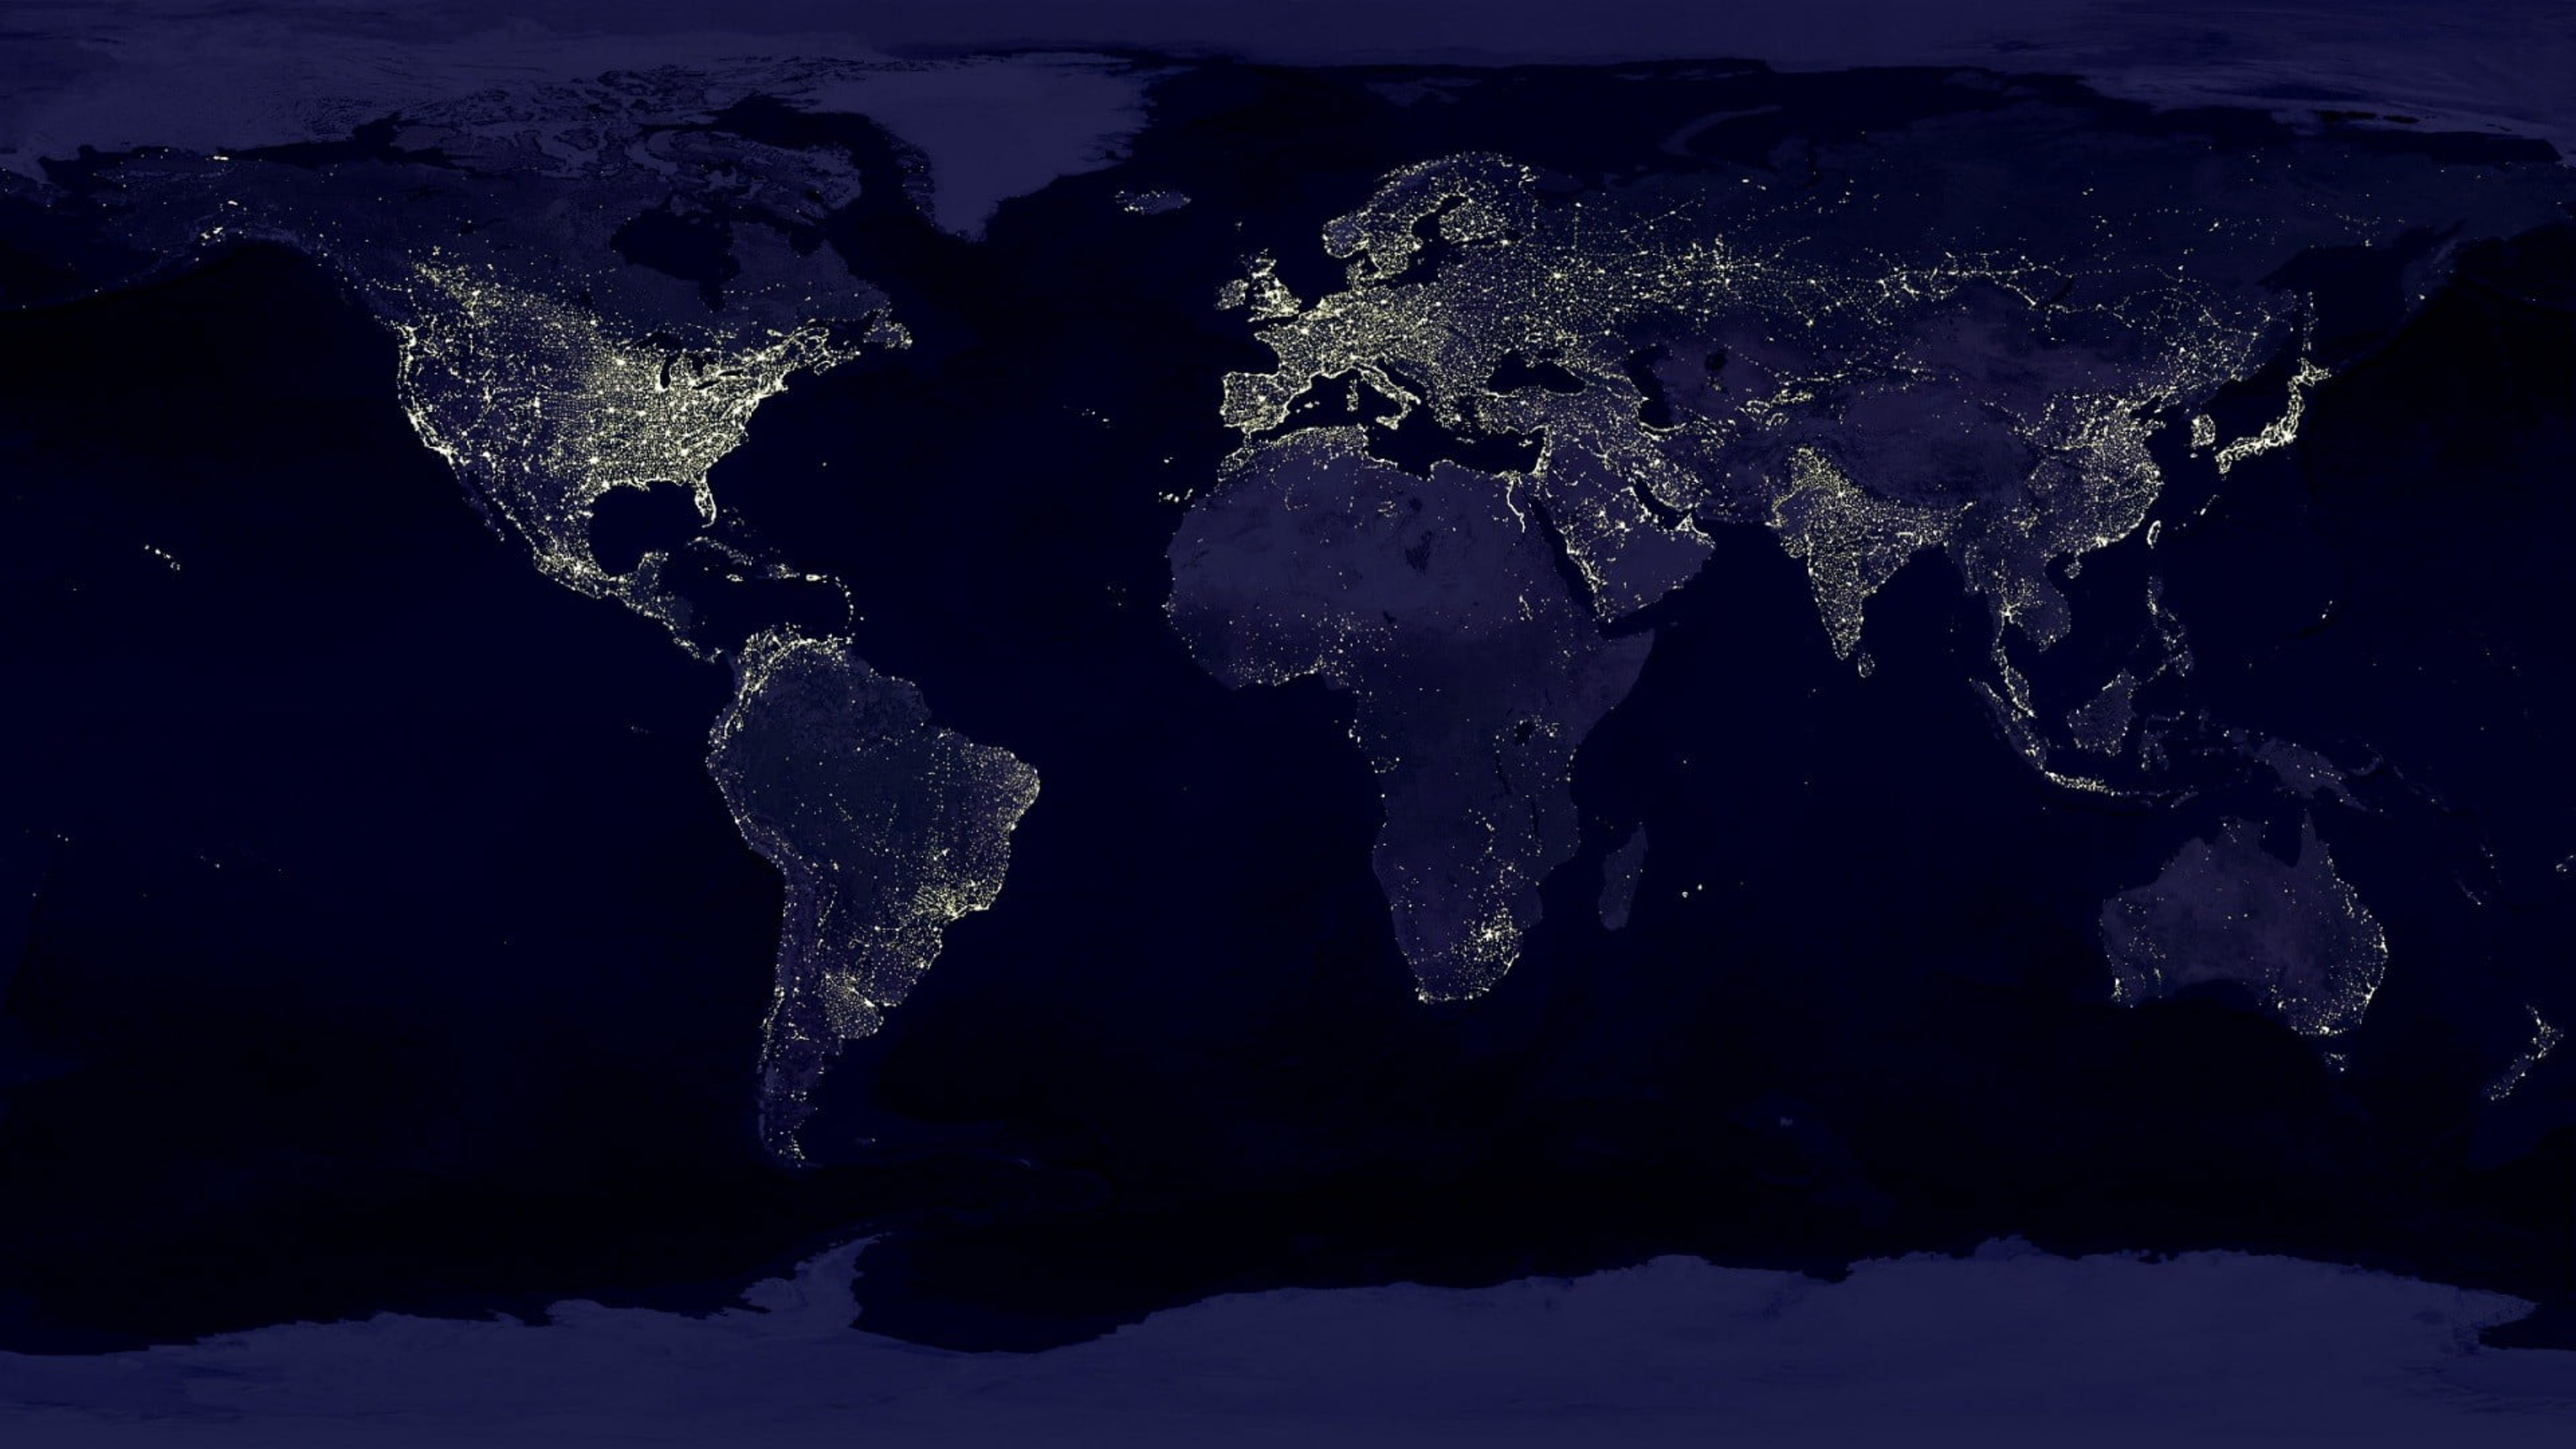
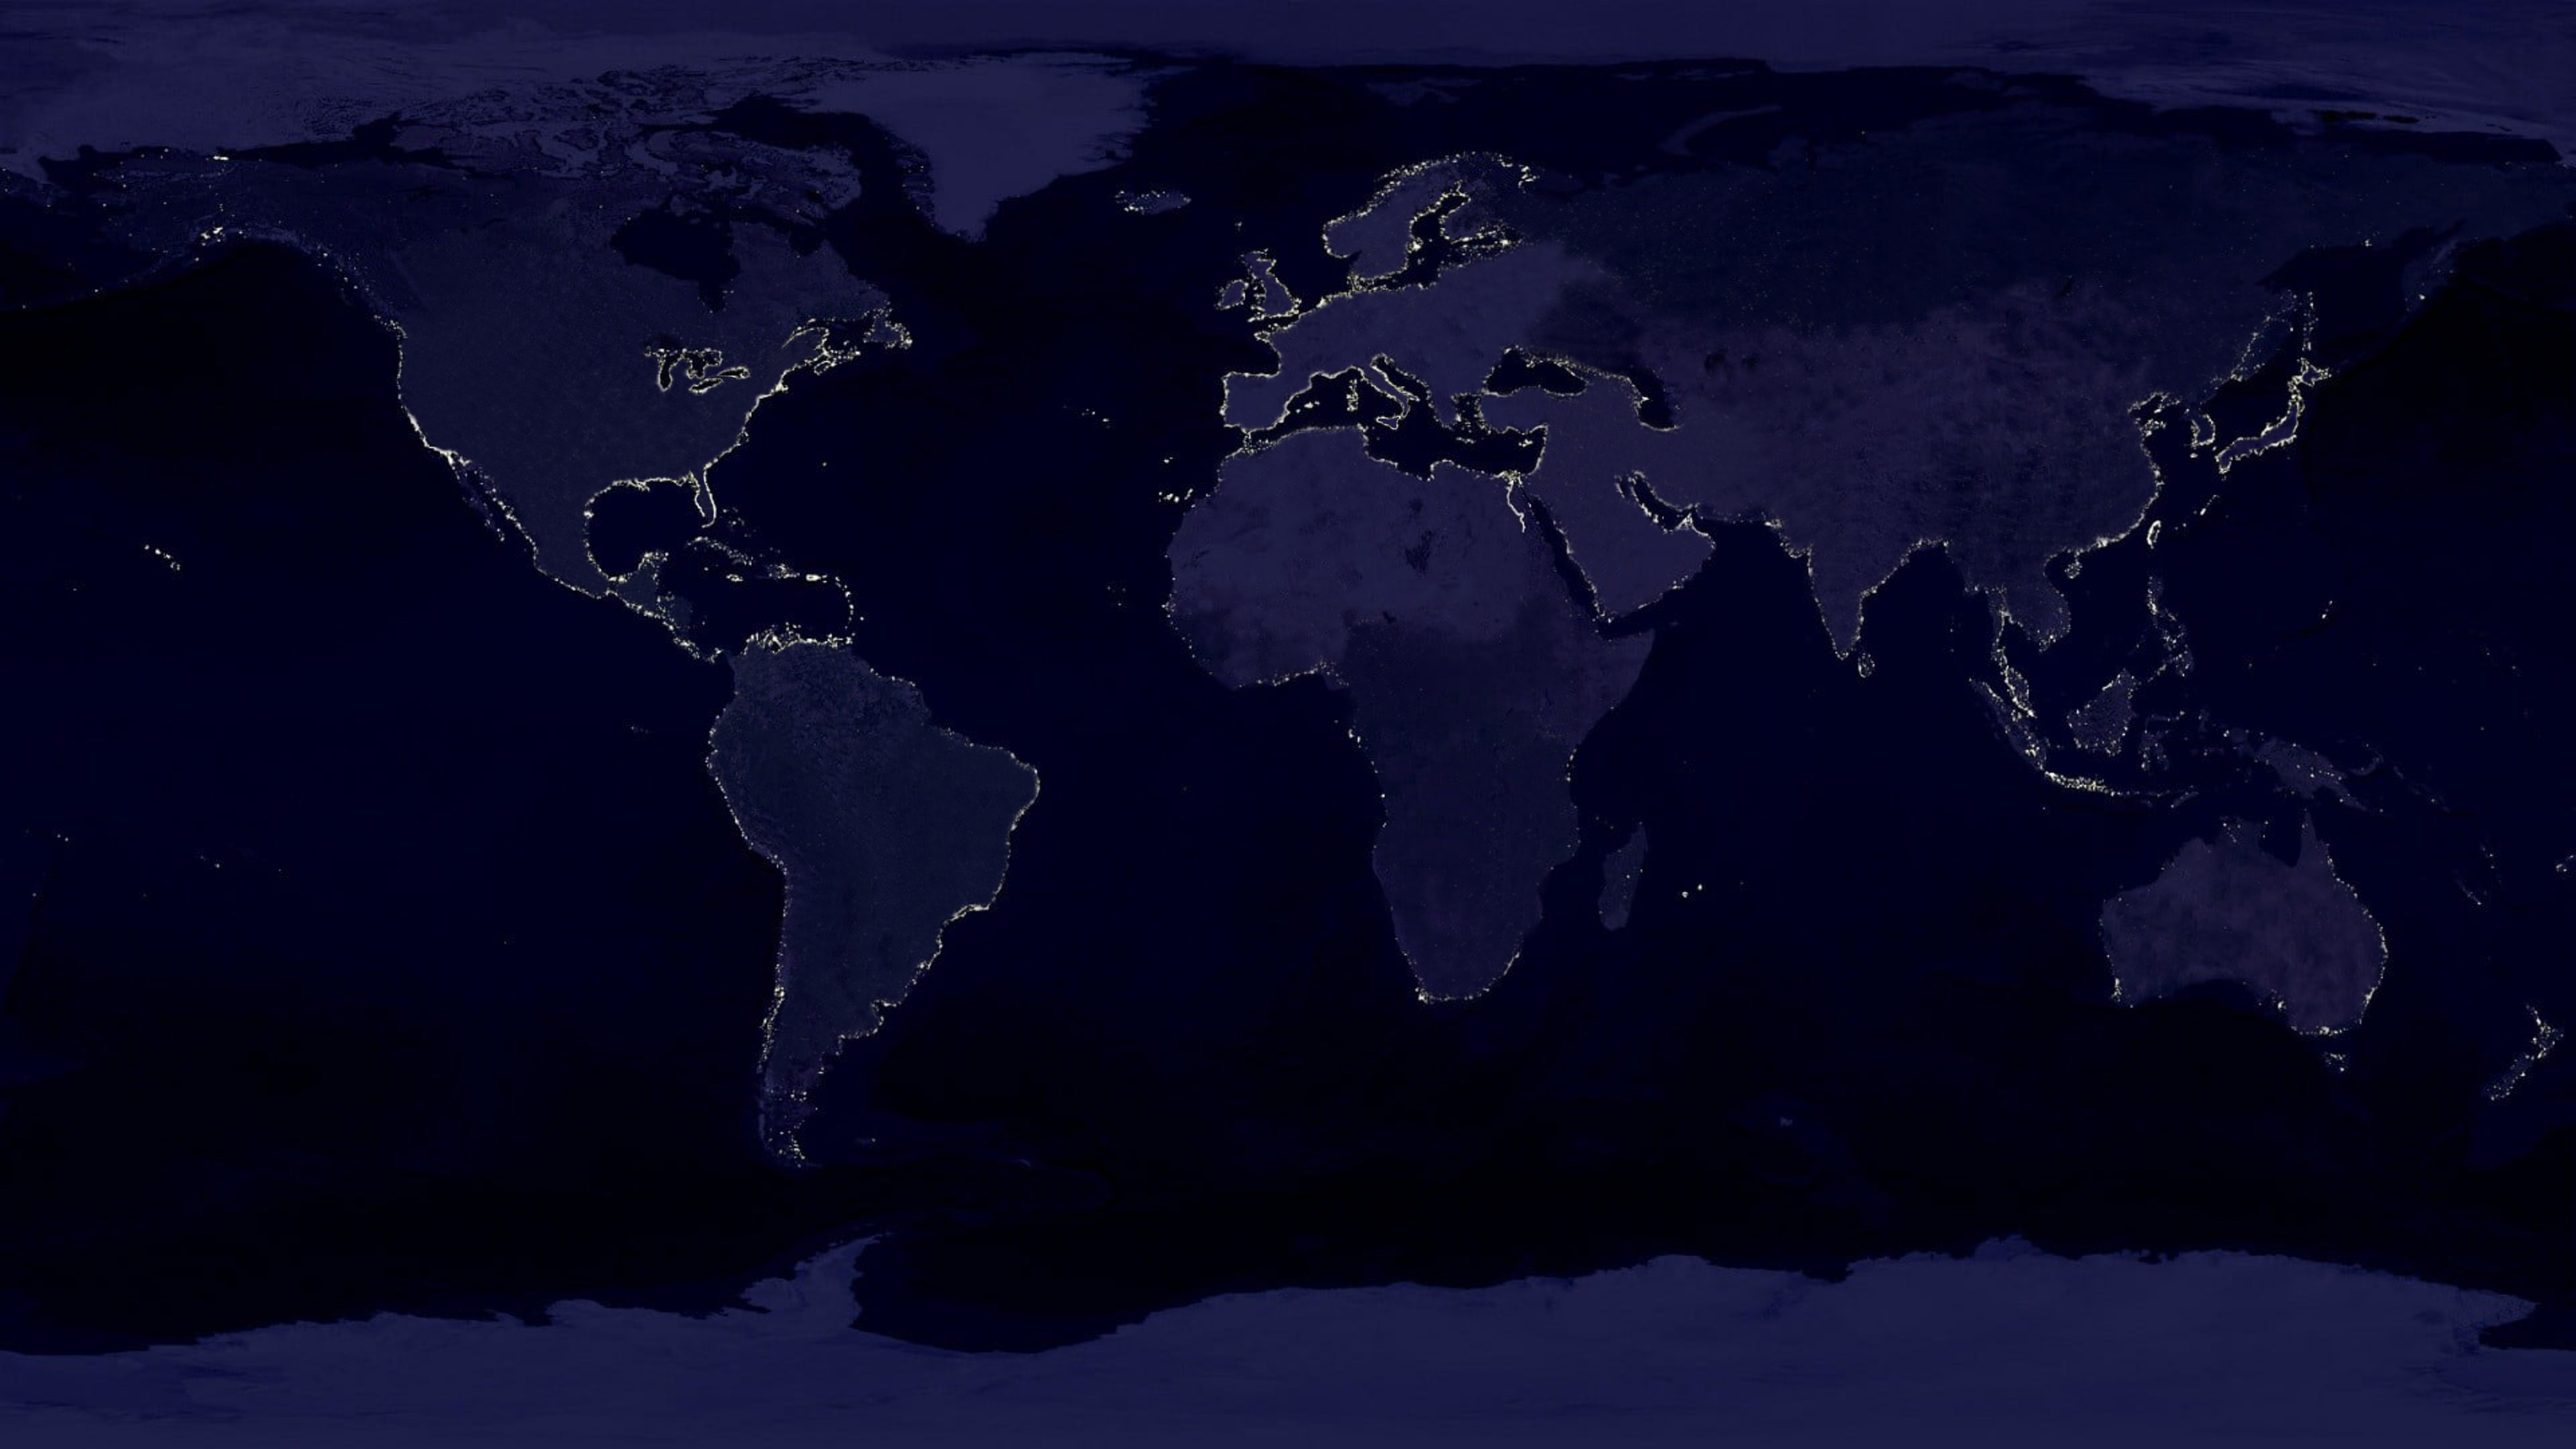
Se cambia imagen de fondo y se comenta el envio de correos para no gastarlos

diff --git a/src/views/ContactanosPerfil.js b/src/views/ContactanosPerfil.js
@@ -52,19 +52,19 @@ export const ContactanosPerfil = (props) => {
       if (Object.keys(errores).length === 0) {
         setIsSubmitting(true);
 
-        emailjs.sendForm('service_95ngkfb', 'template_957bnbh', e.target, 'user_krKMr1WDCaacehqACU5km')
+        /* emailjs.sendForm('service_95ngkfb', 'template_957bnbh', e.target, 'user_krKMr1WDCaacehqACU5km')
         .then((result) => {
             console.log(result.text);
         }, (error) => {
             console.log(error.text);
-        }); 
+        });  */
 
         mostrarAlerta()
         setInputName("")
         setInputLastName("")
         setInputTexto("")
         setInputEmail("")
-        props.history.push("/");
+        props.history.push("/user/profile");
 
         /* actions
           .contactanos({

diff --git a/src/views/Contactanos.js b/src/views/Contactanos.js
@@ -53,12 +53,12 @@ export const Contactanos = (props) => {
       if (Object.keys(errores).length === 0) {
         setIsSubmitting(true);
 
-         emailjs.sendForm('service_95ngkfb', 'template_957bnbh', e.target, 'user_krKMr1WDCaacehqACU5km')
+        /*  emailjs.sendForm('service_95ngkfb', 'template_957bnbh', e.target, 'user_krKMr1WDCaacehqACU5km')
       .then((result) => {
           console.log(result.text);
       }, (error) => {
           console.log(error.text);
-      }); 
+      });  */
 
         mostrarAlerta()
         setInputName("")
